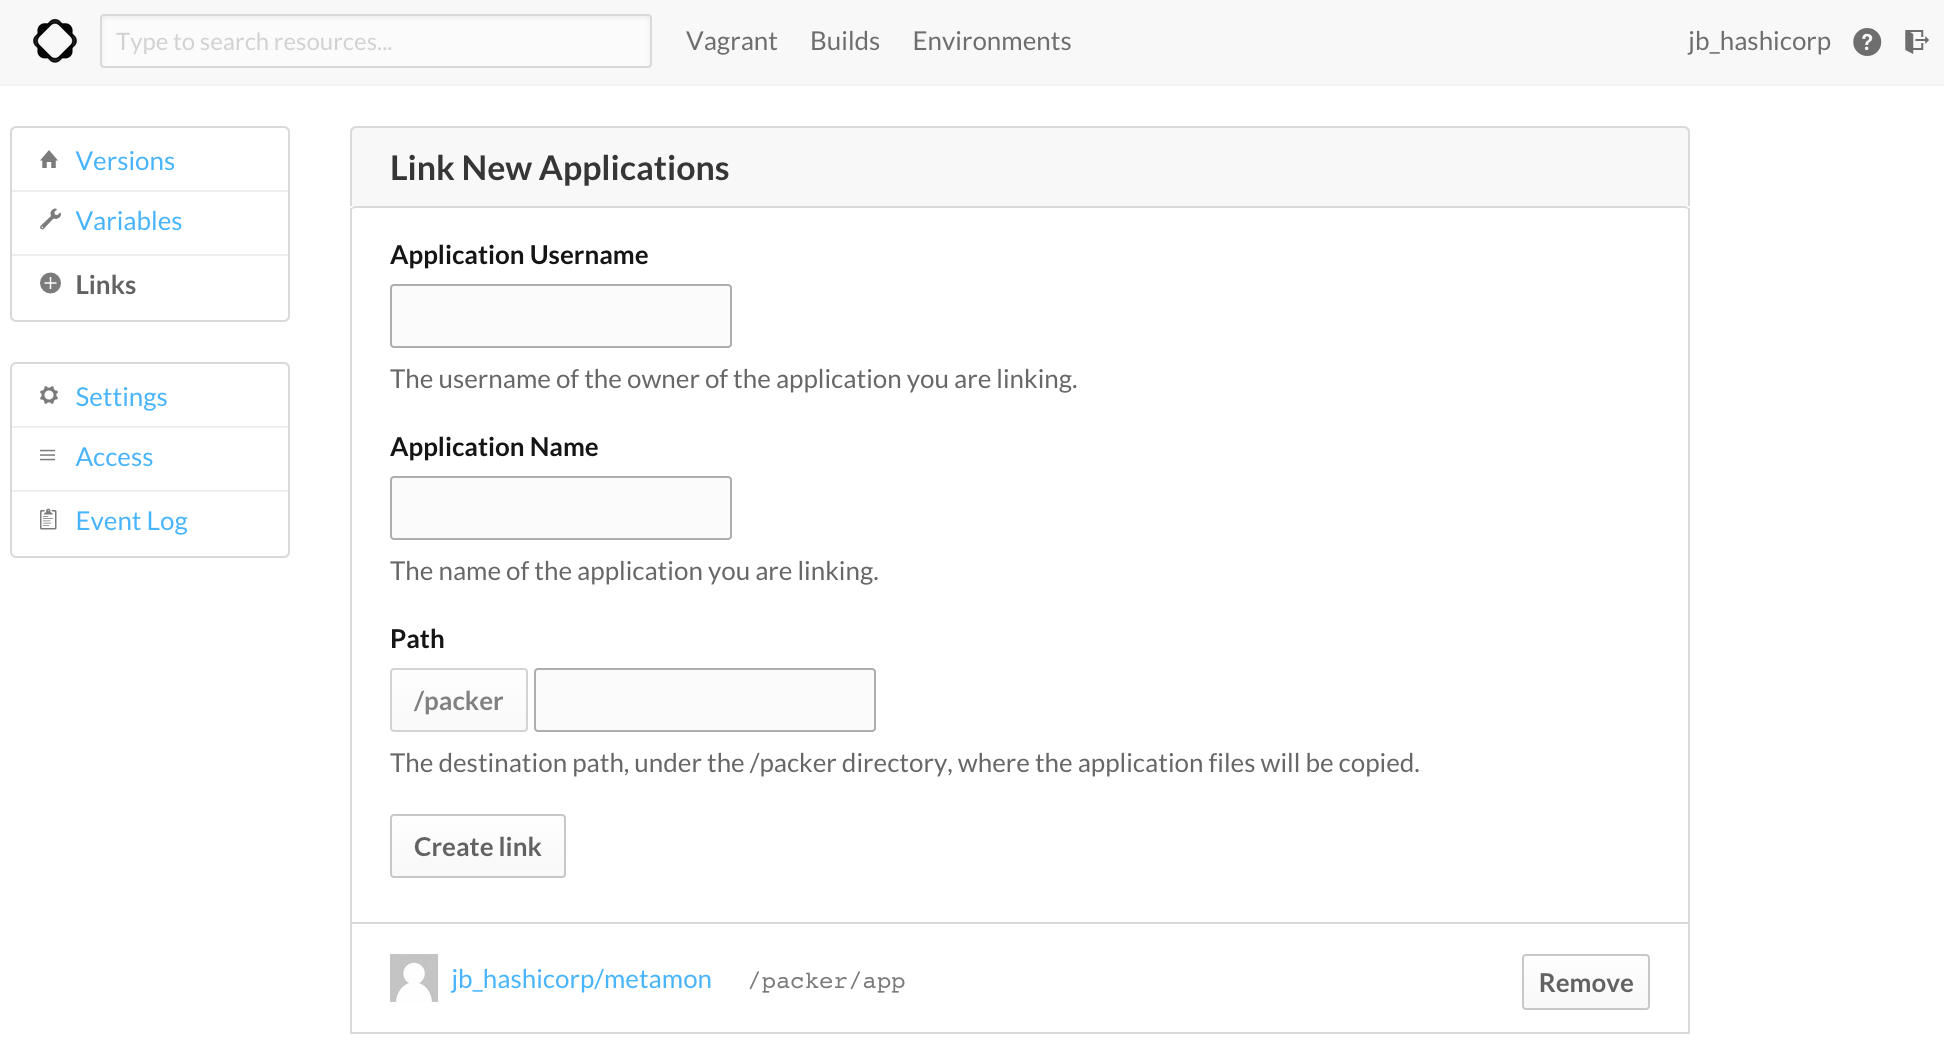
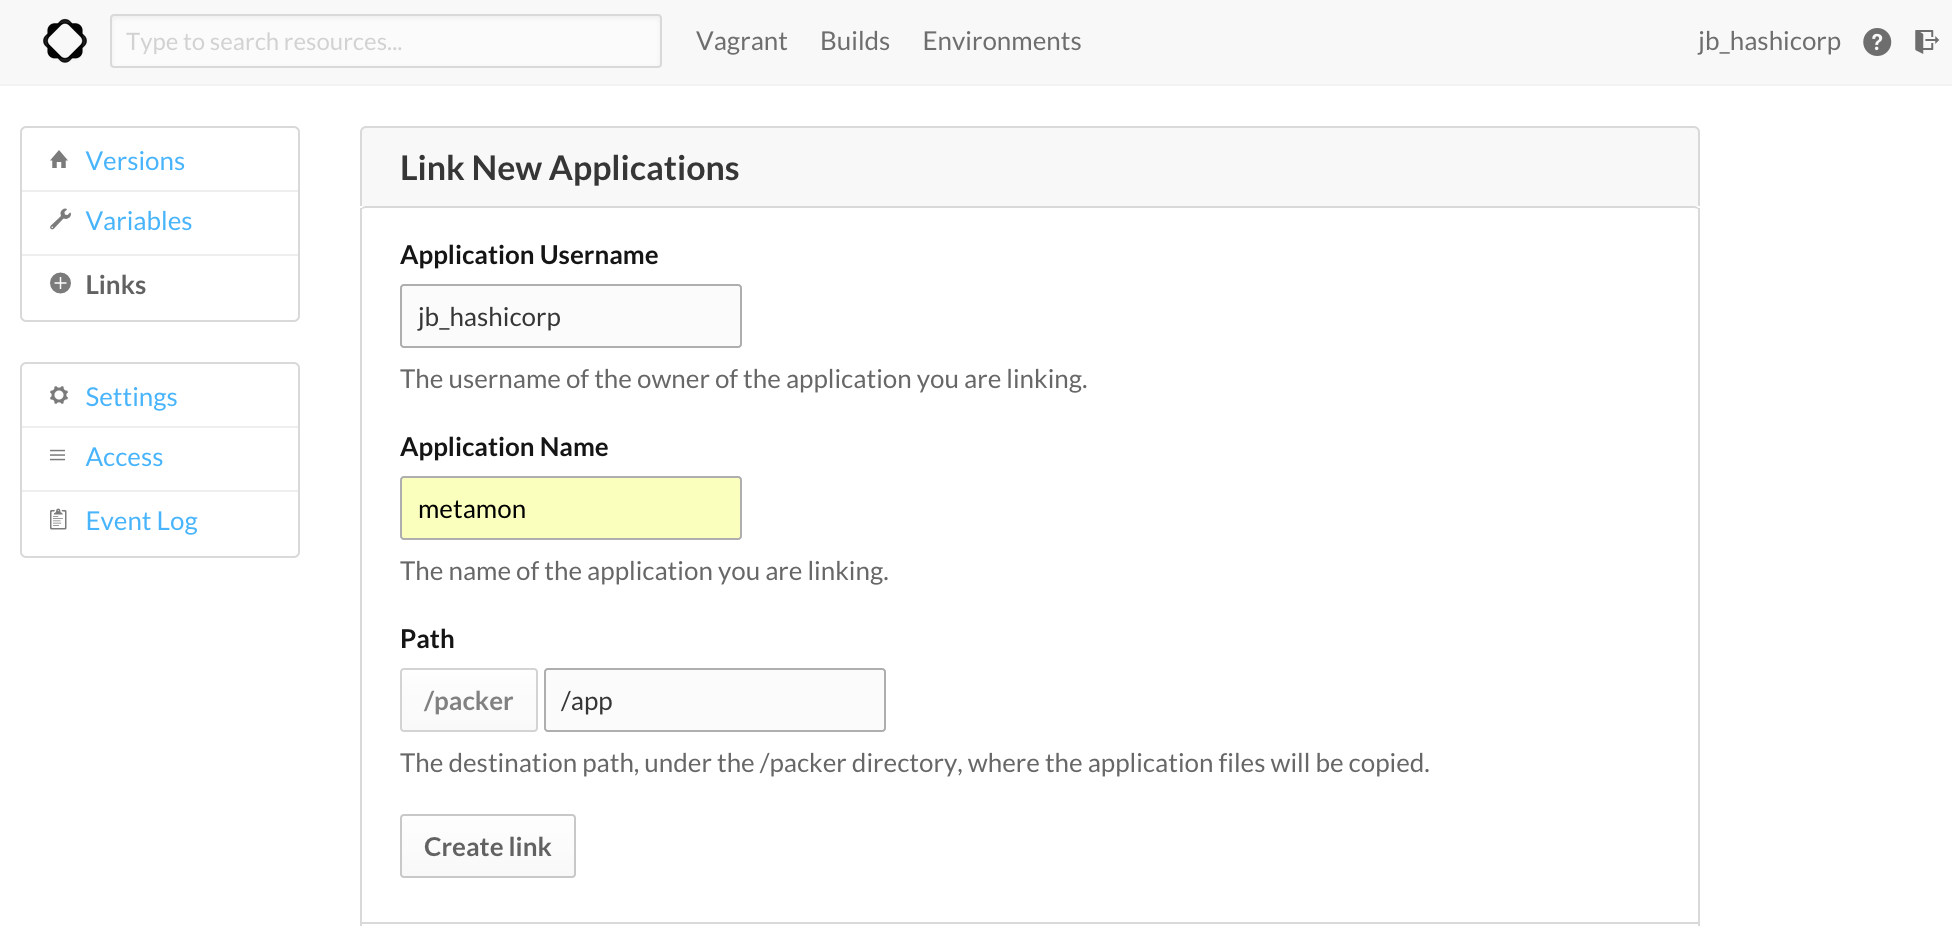
Update README, remove LICENSE

diff --git a/metamon/README.md b/metamon/README.md
@@ -15,26 +15,35 @@ General setup
   2. `$ export AWS_SECRET_KEY=<your_aws_secret_key>`
 6. In the [Vagrantfile](https://github.com/hashicorp/atlas-examples/tree/master/metamon/Vagrantfile), Packer files [ops/site.json](https://github.com/hashicorp/atlas-examples/tree/master/metamon/ops/site.json) and [ops/consul.json](https://github.com/hashicorp/atlas-examples/tree/master/metamon/ops/consul.json), Terraform files [ops/terraform/variables.tf](https://github.com/hashicorp/atlas-examples/tree/master/metamon/ops/terraform/variables.tf) and [ops/terraform/terraform.tfvars](https://github.com/hashicorp/atlas-examples/tree/master/metamon/ops/terraform/terraform.tfvars), and Consul upstart scripts [ops/upstart/consul_client.conf](https://github.com/hashicorp/atlas-examples/tree/master/metamon/ops/upstart/consul_client.conf) and [ops/upstart/consul_server.conf](https://github.com/hashicorp/atlas-examples/tree/master/metamon/ops/upstart/consul_server.conf) you need to replace all instances of `YOUR_ATLAS_USERNAME`, `YOUR_ATLAS_TOKEN`, `YOUR_AWS_ACCESS_KEY`, `YOUR_AWS_SECRET_KEY`, and `YOUR_AWS_KEY_PAIR_NAME` with your Atlas username, Atlas token, [AWS Access Key Id, AWS Secret Access key](http://docs.aws.amazon.com/AWSSimpleQueueService/latest/SQSGettingStartedGuide/AWSCredentials.html), and [AWS key pair name](http://docs.aws.amazon.com/gettingstarted/latest/wah/getting-started-prereq.html)
 
+tl;dr
+-----------------------------------------------
+1. Run `packer push -create consul.json` in the [ops](https://github.com/hashicorp/atlas-examples/tree/master/metamon/ops) directory
+2. Run `packer push -create site.json` in the [ops](https://github.com/hashicorp/atlas-examples/tree/master/metamon/ops) directory
+3. Run `vagrant push` in the [root](https://github.com/hashicorp/atlas-examples/tree/master/metamon) directory
+4. Navigate to "Links" in the left navigation of the "metamon" build configuration (in [Builds tab](https://atlas.hashicorp.com/builds) of your Atlas account), then complete the form with your Atlas username, `metamon` as the application name, and `/app` as the destination path.
+5. Run `terraform apply` in the [ops/terraform](https://github.com/hashicorp/atlas-examples/tree/master/metamon/ops/terraform) directory
+6. Go the the public ip address of the newly created "metamon_1" box and you should see a web page that says "Hello, Atlas!"
+
 Introduction and Configuring Metamon
 -----------------------------------------------
 Before jumping into configuration steps, it's helpful to have a mental model for how the Atlas workflow fits in.
 
-Metamon's [motivation](https://github.com/tryolabs/metamon#motivation) is to make it dead simple to setup a standardized, automated, and generic environment using Ansible playbooks. Metamon will [provision a Vagrant box](https://github.com/tryolabs/metamon#features) to be a development ready web app using Django, Gunicorn, Nginx, and PostgreSQL. Take a look at the [Metamon repository](https://github.com/tryolabs/metamon) for more context in how the provisioning works.
+Metamon's [motivation](https://github.com/tryolabs/metamon#motivation) is to make it dead simple to setup a standardized, automated, and generic environment using Ansible playbooks. Metamon will [provision a Vagrant box](https://github.com/tryolabs/metamon#features) to be a development ready web app using Django, Gunicorn, Nginx, and PostgreSQL. Take a look at the [Metamon repository](https://github.com/tryolabs/metamon) for more context on how the provisioning works.
 
 The files in this repository are designed to make it just as simple to move from development to production by safely deploying and managing your infrastructure on AWS using the Atlas workflow. If you haven't deployed an app with [Atlas](https://atlas.hashicorp.com) before, we recommend you start with the [introductory tutorial](https://atlas.hashicorp.com/help/getting-started/getting-started-overview). Atlas by [HashiCorp](https://hashicorp.com) is a platform to develop, deploy, and maintain applications on any infrastructure provider.
 
 Step 1: Build a Consul Server AMI
 -------------------------
-1. For Consul to work with this setup, we first need to create a Consul server AMI that will be used to build our Consul cluster. To do this, run `packer push -create consul.json` in the ops directory. This will send the build configuration to Atlas so it can build your Consul server AMI remotely. You can follow [this walkthrough](https://github.com/hashicorp/atlas-examples/tree/master/consul) to get a better understanding of how we implemented this. We generally recommend at least a 3 node Consul cluster, but for this example we are just creating 1.
-2. View the status of your build by going to the Builds tab of your [Atlas account](https://atlas.hashicorp.com/builds) and clicking on the 'consul' build configuration under 'Build Configurations' in the left navigation.
+1. For Consul to work with this setup, we first need to create a Consul server AMI that will be used to build our Consul cluster. To do this, run `packer push -create consul.json` in the [ops](https://github.com/hashicorp/atlas-examples/tree/master/metamon/ops) directory. This will send the build configuration to Atlas so it can build your Consul server AMI remotely. You can follow [this walkthrough](https://github.com/hashicorp/atlas-examples/tree/master/consul) to get a better understanding of how we implemented this. We generally recommend at least a 3 node Consul cluster, but for this example we are just creating 1.
+2. View the status of your build by going to the [Builds tab](https://atlas.hashicorp.com/builds) of your Atlas account and clicking on the "consul" build configuration.
   1. ![Builds](screenshots/builds.png?raw=true)
   2. ![Consul Build Configuration](screenshots/consul_build_conf.png?raw=true)
 
 Step 2: Build a Metamon AMI
 -------------------------
-1. Build an AMI using Metamon's Ansible provisioning that will create a functioning web app using Django, Gunicorn, Nginx, PostgreSQL and a few other [Metamon features](https://github.com/tryolabs/metamon#features). To do this, run `packer push -create site.json` in the ops directory. This will send the build configuration to Atlas so it can build your Metamon AMI remotely.
-2. View the status of your build by going to the Builds tab of your [Atlas account](https://atlas.hashicorp.com/builds) and clicking on the 'metamon' build configuration under 'Build Configurations' in the left navigation.
-  1. ![Builds](screenshots/build.png?raw=true)
+1. Build an AMI using Metamon's Ansible provisioning that will create a functioning web app using Django, Gunicorn, Nginx, PostgreSQL and a few other [Metamon features](https://github.com/tryolabs/metamon#features). To do this, run `packer push -create site.json` in the [ops](https://github.com/hashicorp/atlas-examples/tree/master/metamon/ops) directory. This will send the build configuration to Atlas so it can build your Metamon AMI remotely.
+2. View the status of your build by going to the [Builds tab](https://atlas.hashicorp.com/builds) of your Atlas account and clicking on the "metamon" build configuration.
+  1. ![Builds](screenshots/builds.png?raw=true)
   2. ![Metamon Build Configuration](screenshots/metamon_build_conf.png?raw=true)
 3. This creates an AMI with a functioning Django web app that uses Consul for service discovery/configuration and health checking.
 
@@ -43,28 +52,28 @@ _\** The Packer build will fail saying `* Bad source '/packer/app': stat /packer
 
 Step 3: Link your application code
 -------------------------
-1. You'll now want to link up your actual Metamon application code to Atlas so that when you make any code changes, you can `vagrant push` them to Atlas and it will rebuild your AMI automatically. To do this, simply run `vagrant push` in the root directory of your project where the Vagrant file is. This will send your Metamon application to Atlas, which is everything in [/app](https://github.com/hashicorp/atlas-examples/tree/master/metamon/app). Then, link the application with the build configuration by clicking on your Metamon build configuration under the ['Builds' tab of your Atlas account](https://atlas.hashicorp.com/builds), then 'Links' in the left navigation. Complete the form with your username, `metamon` as the application name, and `/app` as the destination path.
+1. You'll now want to link up your actual Metamon application code to Atlas so that when you make any code changes, you can `vagrant push` them to Atlas and it will rebuild your AMI automatically. To do this, simply run `vagrant push` in the [root](https://github.com/hashicorp/atlas-examples/tree/master/metamon) directory of your project where the Vagrant file is. This will send your Metamon application code to Atlas, which is everything in [/app](https://github.com/hashicorp/atlas-examples/tree/master/metamon/app). Then, link the metamon application with your metamon build configuration by clicking on your metamon build configuration under the [Builds tab](https://atlas.hashicorp.com/builds) of your Atlas account, then "Links" in the left navigation. Complete the form with your Atlas username, `metamon` as the application name, and `/app` as the destination path.
   1. ![Links](screenshots/links.png?raw=true)
-2. Now that your application and build configuration are linked, click 'Rebuild' on the latest Metamon build configuration in the ['Builds' tab of your Atlas account](https://atlas.hashicorp.com/builds) and you will have a fully-baked AMI of your Django web app.
+2. Now that your application and metamon build configuration are linked, click "Rebuild" on the latest metamon build configuration in the [Builds tab](https://atlas.hashicorp.com/builds) of your Atlas account and you will have a fully-baked AMI of your Django web app.
   1. ![Rebuild](screenshots/links.png?raw=true)
 
-_\** `packer push site.json` will rebuild the AMI with the application code that was last pushed to Atlas whereas `vagrant push` will push your latest application code to Atlas and THEN rebuild the AMI. When you want any new modifications of your application code to be included in the AMI, do a `vagrant push`, otherwise, if you're just updating the packer template but no application code has changed, do a `packer push site.json`._
+_\** `packer push site.json` will rebuild the AMI with the application code that was last pushed to Atlas whereas `vagrant push` will push your latest application code to Atlas and THEN rebuild the AMI. When you want any new modifications of your application code to be included in the AMI, do a `vagrant push`, otherwise if you're just updating the packer template but no application code has changed, do a `packer push site.json`._
 
 Step 4: Deploy Metamon Web App and Consul Cluster
 --------------------------
-1. To deploy your Metamon web app and Consul cluster, all you need to do is run `terraform apply` in the [ops/terraform](https://github.com/hashicorp/atlas-examples/tree/master/metamon/ops/terraform) folder.
-2. You should see 2 new boxes spinning up in EC2, one named metamon_1 which is your web app, and one named consul_1 which is your consul cluster (of 1 for now).
+1. To deploy your Metamon web app and Consul cluster, all you need to do is run `terraform apply` in the [ops/terraform](https://github.com/hashicorp/atlas-examples/tree/master/metamon/ops/terraform) directory.
+2. You should see 2 new boxes spinning up in EC2, one named metamon_1 which is your web app, and one named consul_1 which is your Consul cluster (of 1 for now).
   1. ![AWS](screenshots/aws_ec2_instances.png?raw=true)
 
 Final Step: Test Metamon
 ------------------------
 1. Once the metamon_1 box is running, go to its public ip and you should see a website that reads "Hello, Atlas!"
   1. ![Hello, Atlas!](screenshots/hello_atlas.png?raw=true)
-2. Navigate to the [Environments tab](https://atlas.hashicorp.com/environment) in your Atlas account and click on the newly created infrastructure. You'll now see the real-time health of all your nodes and services!
+2. Navigate to the [Environments tab](https://atlas.hashicorp.com/environment) of your Atlas account and click on the newly created "metamon" environment. You'll now see the real-time health of all your nodes and services!
   1. ![Environments](screenshots/environments.png?raw=true)
   2. ![Metamon Infrastructure](screenshots/metamon_infrastructure.png?raw=true)
 3. Change your app code by modifying [/app/app/views.py](https://github.com/hashicorp/atlas-examples/tree/master/metamon/app/app/views.py) to say "Hello, World!" instead of "Hello, Atlas!".
-4. Run `vagrant push` in your projects root directory (where the Vagrantfile is). Once the packer build finishes (view this in ['Builds' tab of your Atlas account](https://atlas.hashicorp.com/builds)), run `terraform apply` in the [ops/terraform/](https://github.com/hashicorp/atlas-examples/tree/master/metamon/ops/terraform) directory and your new web app will be deployed!
+4. Run `vagrant push` in your projects root directory (where the Vagrantfile is). Once the packer build finishes (view this in [Builds tab](https://atlas.hashicorp.com/builds) of your Atlas account), run `terraform apply` in the [ops/terraform](https://github.com/hashicorp/atlas-examples/tree/master/metamon/ops/terraform) directory and your new web app will be deployed!
 
 Cleanup
 ------------------------
